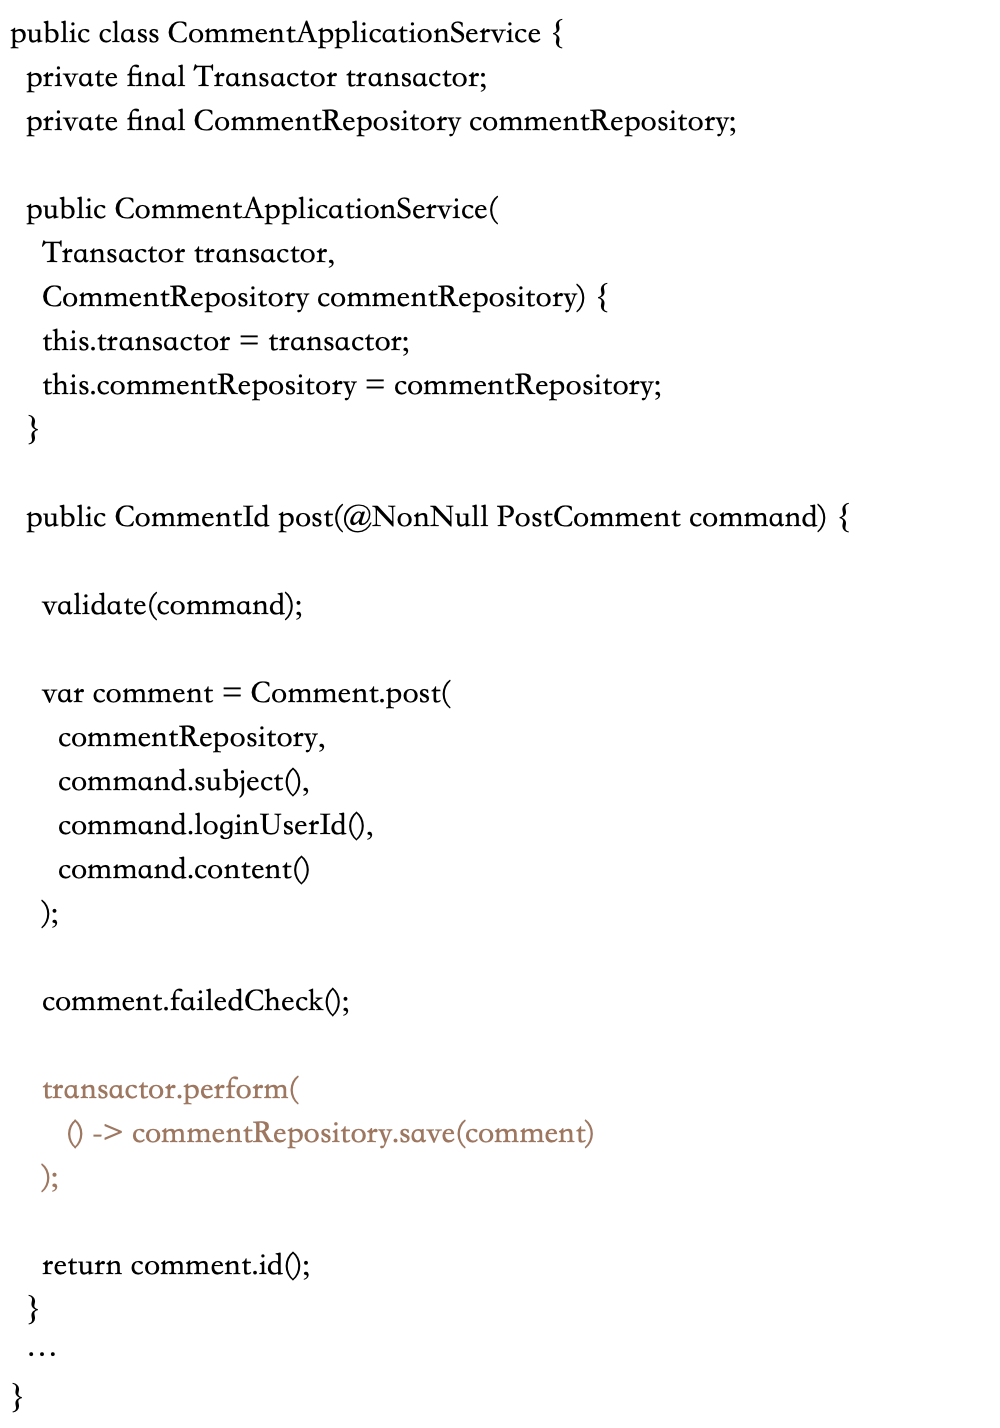
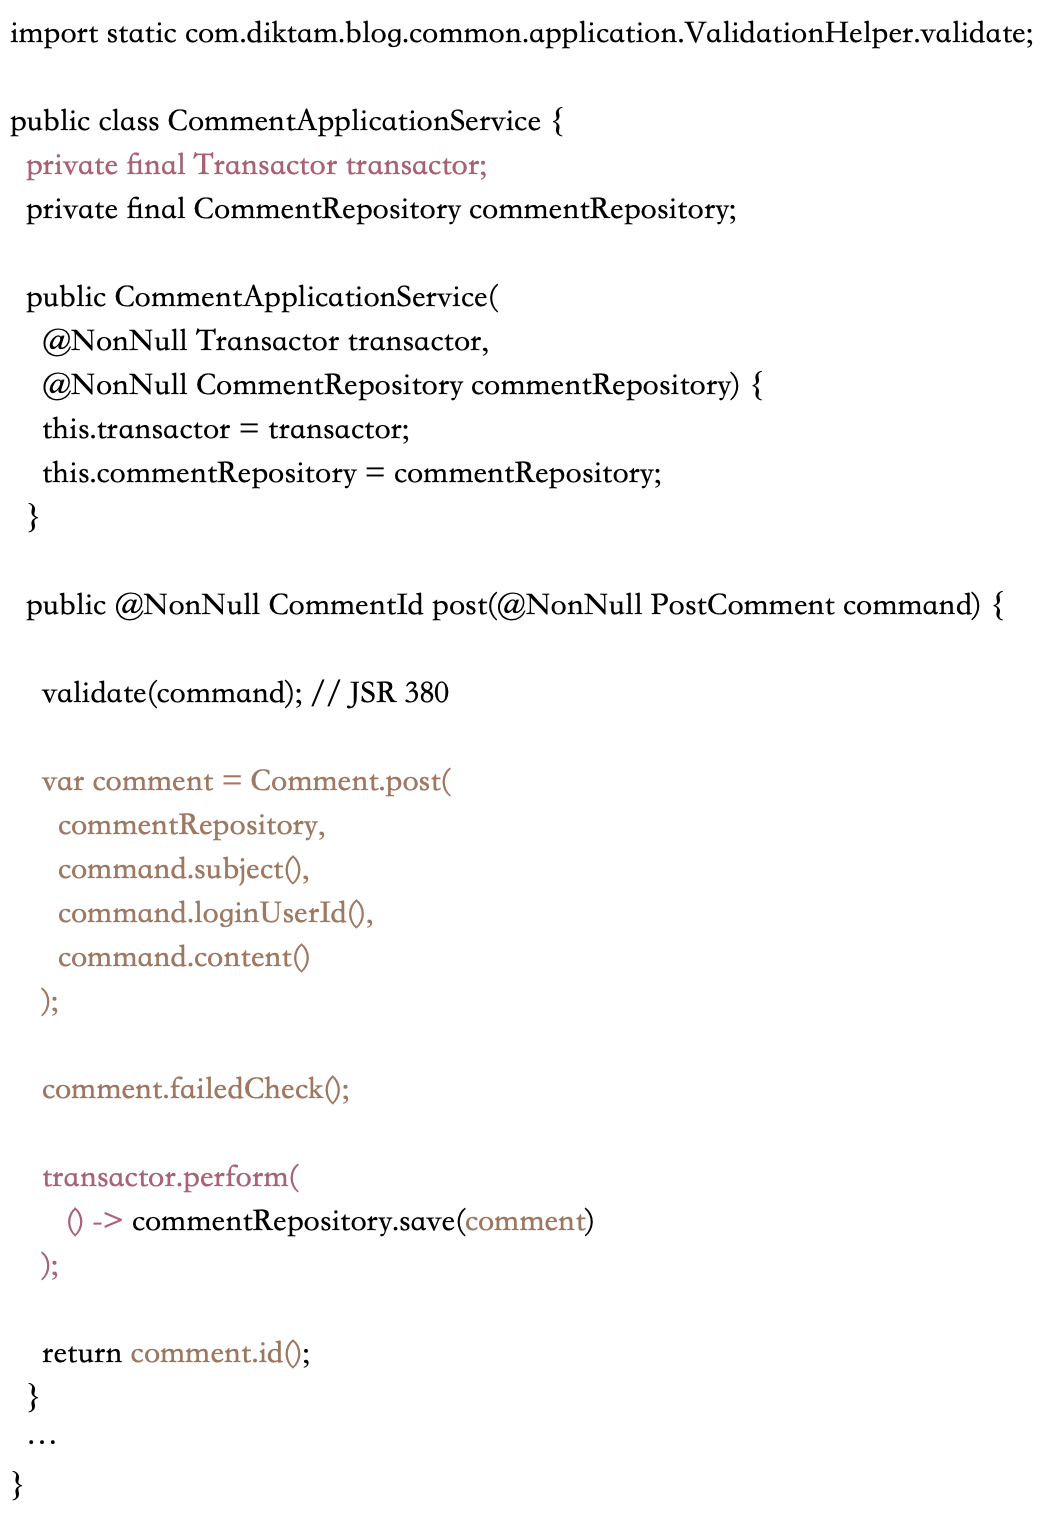
simple update

diff --git a/content/posts/古早软件开发法/index.md b/content/posts/古早软件开发法/index.md
@@ -517,22 +517,6 @@ DDD 的关键是，落实并贯彻 *领域模型* 和 *通用语言*。不要让
 这是最终得到的回复模型。因为与评论概念存在差异，所以使用不同的模型来区分它们。另外可以看到，回复是一个实体，而不是值对象。这是因为它和评论一样，虽要被跟踪生命周期。
 ![](images/reply_entity.png)
 
-### 应用层
-
-应用层的主要职责是，编排用例和执行事务管理。但如果系统本身足够简单，那么它就不是必需的。此时可以把相关职责交给表现层来实现。譬如 Controller 或 Router。但若然需要支持多种网络通协议，那么相关逻辑就应该能够被复用。此时应用层的价值就会体现出来。而且从长远看，这绝对是一种良好的实践
-![](images/CommentApplicationService.png)
-
-我这里使用的是自定义事务管理器。其实大多数情况，根本没有必要使用复杂的框架。
-
-首先创建一个 DataSource 代理（静态或动态都可以），然后控制 getConnection() 的访问。
-![](images/ThreadLocalDataSourceProxy.png)
-
-> 这里使用 ThreadLocal 来实现事务管理的原因有两个，一是用例本身并不存在并发性 — Connection 始终位于同一条线程上。二是 ThreadLocal 能够方便地跨组件共享依赖。因为当前项目中，并非只有事务管理器在引用 DataSource，其实相关仓储（如：CommentRepository）也在引用它。
-
-然后再基于 Data Source 实现事务管理 API。
-![](images/ThreadLocalDataSourceTransactor.png)
-
-
 ### 渐进式数据库设计
 
 渐进式数据库设计使用*不可变脚本*来记录数据库变迁。
@@ -574,6 +558,21 @@ DDD 的关键是，落实并贯彻 *领域模型* 和 *通用语言*。不要让
 ![](images/JooqCommentRepository.png)
 
 > 并非只有分布式应用才需要分布式事务。只要涉及异步（跨上下文）协作，就需要确可靠和一致。而且该问题还不能一概而论，因为不同类型的系统对一致性的要求并不一样。譬如 CMS 对一致性的要求就不高。我这里使用分布式事务更多是因为写作需要，其次才是确保一致性。例子使用 *Outbox 模式*（国内又叫“本地事务表”）进行实现。它的原理比较简单，先用一张 Outbox 表记录待发送消息，然后让其他并发工作线程抓取这些消息，并将其发送到 EventBus 即可。该模式之所以可行，是因为 Outbox 表和聚合表位于同一个本地事务。
+
+### 应用层
+
+应用层的主要职责是，编排用例和执行事务管理。但如果系统本身足够简单，那么它就不是必需的。此时可以把相关职责交给表现层来实现。譬如 Controller 或 Router。但若然需要支持多种网络通协议，那么相关逻辑就应该能够被复用。此时应用层的价值就会体现出来。而且从长远看，这绝对是一种良好的实践
+![](images/CommentApplicationService.png)
+
+我这里使用的是自定义事务管理器。其实大多数情况，根本没有必要使用复杂的框架。
+
+首先创建一个 DataSource 代理（静态或动态都可以），然后控制 getConnection() 的访问。
+![](images/ThreadLocalDataSourceProxy.png)
+
+> 这里使用 ThreadLocal 来实现事务管理的原因有两个，一是用例本身并不存在并发性 — Connection 始终位于同一条线程上。二是 ThreadLocal 能够方便地跨组件共享依赖。因为当前项目中，并非只有事务管理器在引用 DataSource，其实相关仓储（如：CommentRepository）也在引用它。
+
+然后再基于 Data Source 实现事务管理 API。
+![](images/ThreadLocalDataSourceTransactor.png)
 
 ### 防腐层
 